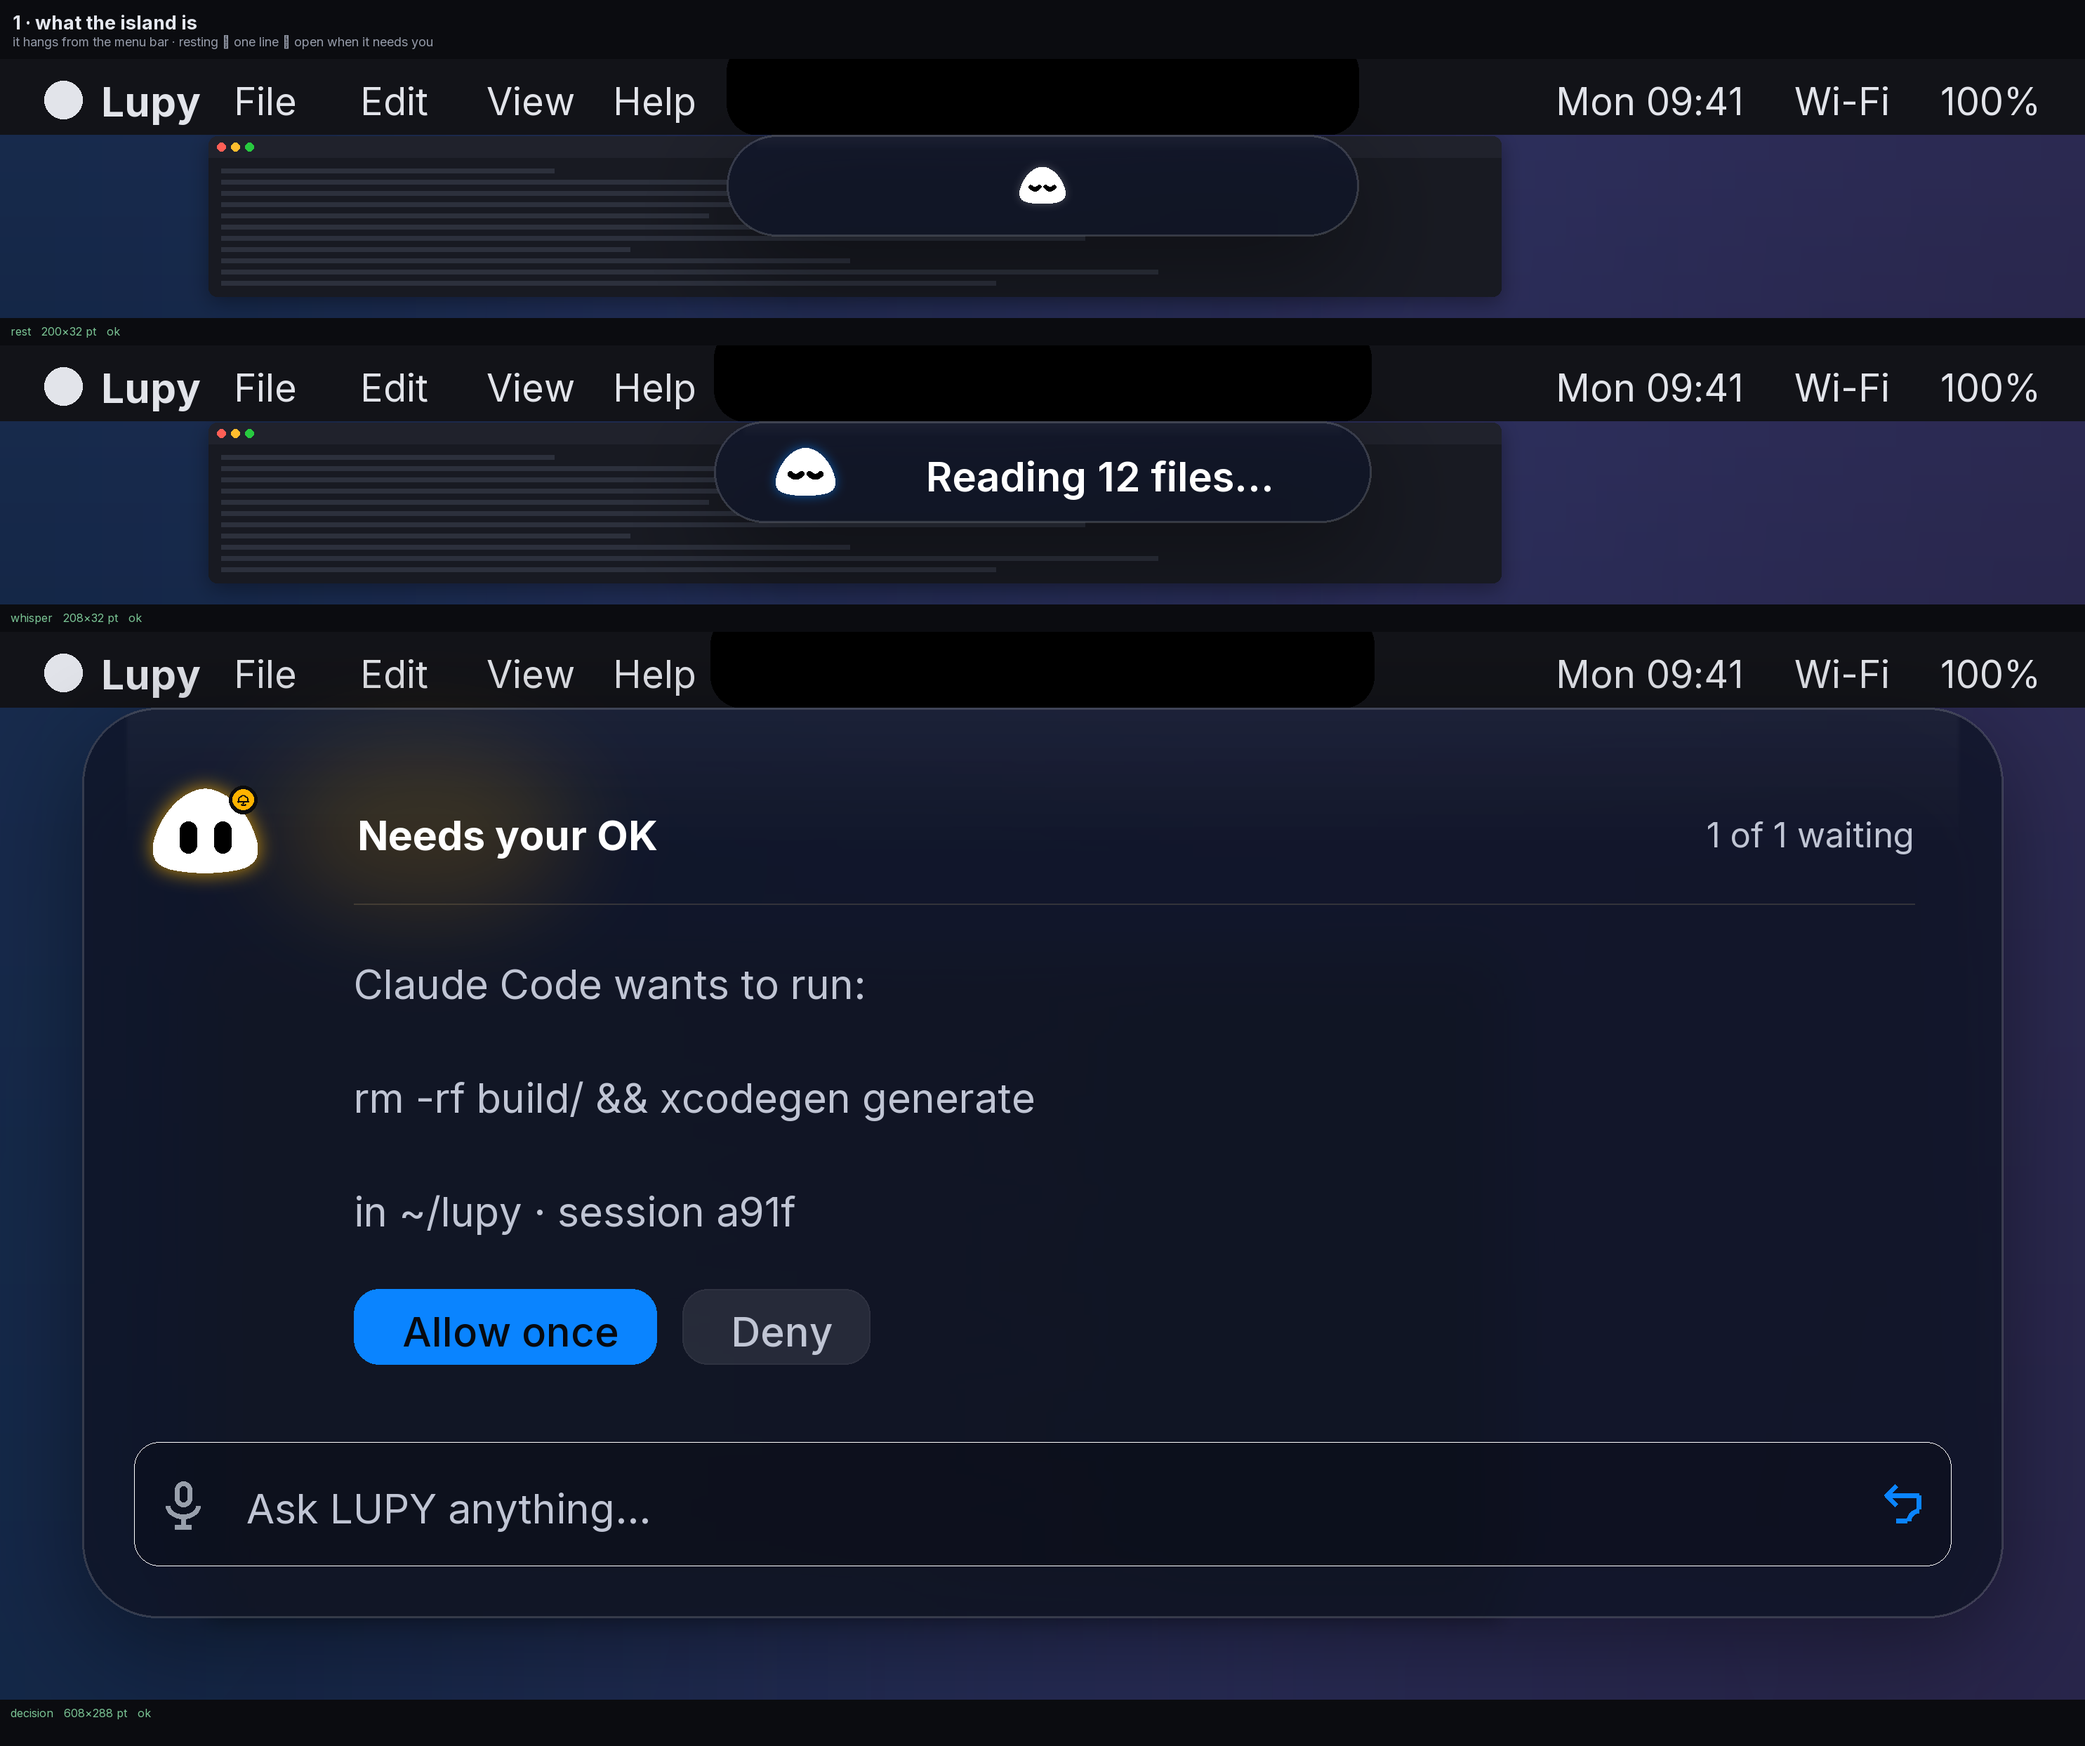
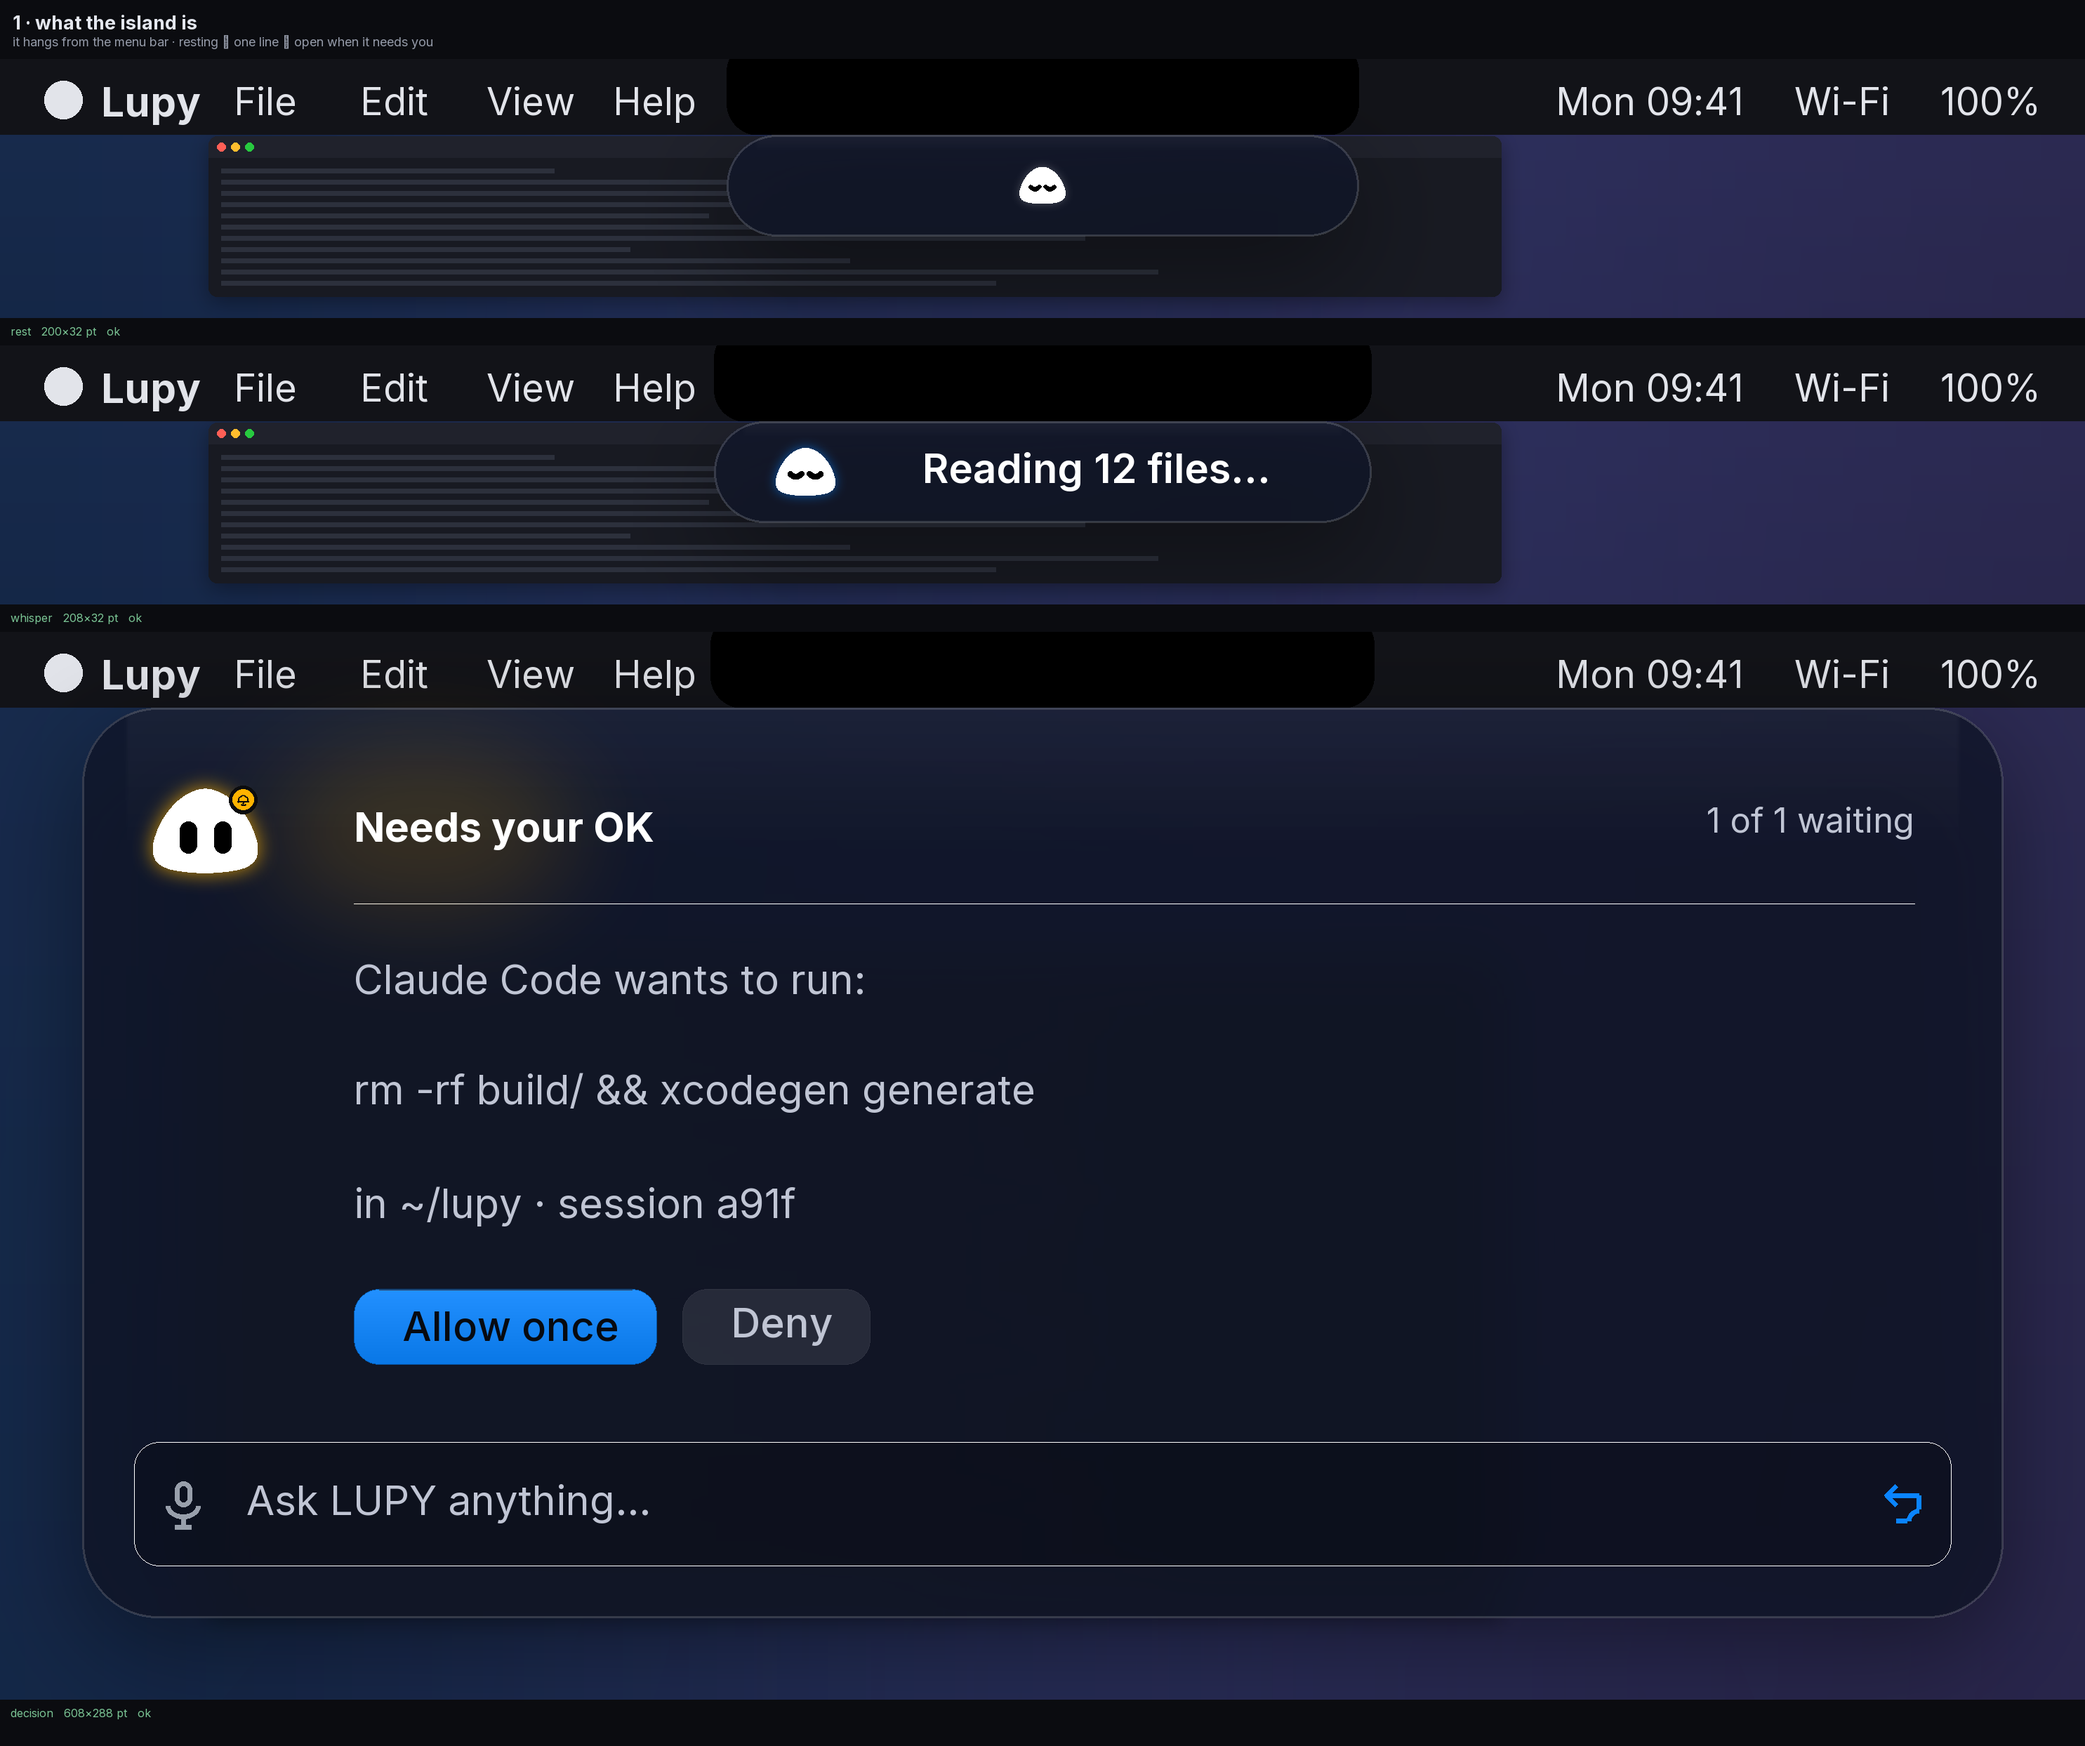
No-notch Macs: the software capsule + the jump, proven on both anchors
The founder's M1 2020 has no housing, and Coucou proved the pattern: a software
capsule 4 pt under the menu bar, centred. kernel gains softwareGap as law; the
renderer draws both anchors from one code path; walk-4-the-jump.png shows the
capsule -> line -> canvas growth from one origin, and shot-approval-m1.png is the
approval surface exactly as his MacBook will place it. Walkthrough gains Picture 4.
Council still SATISFIED (12 checks).

diff --git a/Mac/Sources/Lupy/UI/LupyIslandDesign.swift b/Mac/Sources/Lupy/UI/LupyIslandDesign.swift
@@ -639,6 +639,15 @@ enum LupyIslandLayout {
     /// The narrowest card that can still hold a headline and a source line.
     static let headlineMin: Double = 240
 
+    // MARK: where the island hangs — notch Macs and bare Macs alike
+    /// The founder's MacBook (M1 2020) has NO notch, and the island must live there
+    /// exactly as happily as on a notched machine — the way Coucou floats its pill.
+    /// On a bare Mac the capsule is a SOFTWARE island: it hangs 4 pt below the menu
+    /// bar, centred, and every growth step morphs from that same capsule origin, so
+    /// LUPY "jumps" from the pill into the open canvas instead of teleporting.
+    /// On a notch Mac the band wraps the housing and the gap is 0.
+    static let softwareGap: Double = 4
+
     /// Round *up* to the grid.
     ///
     /// Up, not down and not nearest. The height of a canvas is the sum of the rows its

diff --git a/tools/ui/layout_emit.swift b/tools/ui/layout_emit.swift
@@ -189,7 +189,7 @@ enum LayoutEmitter {
         let m2 = " row \(num(L.rowHeight)) chip \(num(L.chipHeight)) composer \(num(L.composerHeight))"
         let m3 = " chipPadH \(num(L.chipPadH)) chipIconGap \(num(L.chipIconGap))"
         let m4 = " chipCorner \(num(L.chipCorner))"
-        let m5 = " fieldCorner \(num(L.fieldCorner))"
+        let m5 = " fieldCorner \(num(L.fieldCorner)) softwareGap \(num(L.softwareGap))"
         print(m1 + m2 + m3 + m4 + m5)
         print("CONTRAST primary_bright \(num(LupyPalette.textPrimary.contrast(with: LupyGlass.panel.composited(over: br))))"
               + " primary_dark \(num(LupyPalette.textPrimary.contrast(with: LupyGlass.panel.composited(over: dk))))"

diff --git a/tools/ui/render_island.py b/tools/ui/render_island.py
@@ -177,8 +177,8 @@ def desktop(w, h, kind, seed=3):
     return img
 
 
-def menu_bar(w, ss, kind, notch_w):
-    """The macOS menu bar, with the notch the island hangs from."""
+def menu_bar(w, ss, kind, notch_w, notch=True):
+    """The macOS menu bar; the notch only where the hardware has one."""
     h = int(MENUBAR * ss)
     bar = Image.new("RGB", (w, h), (246, 247, 250) if kind == "bright" else (18, 19, 24))
     d = ImageDraw.Draw(bar)
@@ -197,7 +197,9 @@ def menu_bar(w, ss, kind, notch_w):
         tw = d.textlength(m, font=fr)
         d.text((x - tw, (h - fr.size) // 2), m, font=fr, fill=ink)
         x -= int(tw + 16 * ss)
-    # the notch: black, centred, the island's home
+    # the notch: black, centred, the island's home — absent on bare Macs
+    if not notch:
+        return bar
     nw = int(notch_w * ss)
     d.rounded_rectangle([(w - nw) // 2, -int(6 * ss), (w + nw) // 2, h],
                         radius=int(10 * ss), fill=(0, 0, 0))
@@ -341,25 +343,28 @@ def scene_width_pt(canvas):
     return int(canvas["w"]) + 52
 
 
-def draw_scene(doc, canvas, rig, kind, pp, context=True, below=26, min_w=None):
+def draw_scene(doc, canvas, rig, kind, pp, context=True, below=26, min_w=None,
+               anchor="notch"):
     """One island, hanging from a menu bar over a desktop. Returns RGB at pp*SS px/pt.
     min_w (points) lets a sheet share one screen width, so every row's menu bar
     runs edge to edge instead of being chopped to the island's own width."""
     ss = SS * pp
+    m = doc["metric"]
     w, h, corner = canvas["w"], canvas["h"], canvas["corner"]
     side = 26
     if min_w and w + 2 * side < min_w:
         side += (min_w - (w + 2 * side)) // 2
+    gap = 0.0 if anchor == "notch" else m["softwareGap"]
     top = MENUBAR if context else 0
     W = int((w + 2 * side) * ss)
-    H = int((top + h + below) * ss)
+    H = int((top + gap + h + below) * ss)
 
     img = desktop(W, H, kind)
     if context:
-        bar = menu_bar(W, ss, kind, min(w, 210))
+        bar = menu_bar(W, ss, kind, min(w, 210), notch=(anchor == "notch"))
         img.paste(bar, (0, 0))
 
-    oy = top
+    oy = top + gap
     g = doc["glass"]["panel"]
     paste_glass(img, (side, oy, w, h), corner, g, ss)
     d = ImageDraw.Draw(img)
@@ -504,12 +509,14 @@ def fit(text, font, avail, d):
 
 # --------------------------------------------------------------------- sheets
 
-def stack(doc, rig, ids, kind, pp, title=None, note=None, gap=18, min_w=None):
+def stack(doc, rig, ids, kind, pp, title=None, note=None, gap=18, min_w=None,
+          anchor="notch"):
     cs = sorted([c for c in doc["canvases"] if c["id"] in ids],
                 key=lambda c: ids.index(c["id"]))
     if min_w is None:
         min_w = max(scene_width_pt(c) for c in cs)
-    tiles = [draw_scene(doc, c, rig, kind, pp, min_w=min_w) for c in cs]
+    tiles = [draw_scene(doc, c, rig, kind, pp, min_w=min_w, anchor=anchor)
+             for c in cs]
     lab = int(26 * pp)
     W = max(t.size[0] for t in tiles)
     head = int(56 * pp) if title else 0
@@ -629,6 +636,17 @@ def main():
     save(stack(doc, rig, ["answer", "task", "question", "error", "transcript"], "dark", 1.1),
          "lupy-island-surfaces.png")
     save(grid(doc, rig, 0.9, cols=3), "lupy-island-all.png")
+
+    # The founder's M1 2020 has no notch: the software island, and the jump.
+    save(stack(doc, rig, ["rest", "whisper", "decision"], "dark", 1.5,
+               title="4 · the jump — one capsule, one origin, no notch needed",
+               note="his capsule hangs 4 pt under the menu bar and grows from itself",
+               anchor="software"),
+         "walk-4-the-jump.png")
+    dec = [c for c in doc["canvases"] if c["id"] == "decision"][0]
+    save(draw_scene(doc, dec, rig, "dark", 2.6, anchor="software"),
+         "shot-approval-m1.png")
+    save(draw_scene(doc, dec, rig, "dark", 2.6), "shot-approval.png")
 
 
 if __name__ == "__main__":

diff --git a/docs/concepts/ISLAND_WALKTHROUGH.md b/docs/concepts/ISLAND_WALKTHROUGH.md
@@ -69,3 +69,20 @@ app? I will build that one, show you the result, and wait for your OK before the
 
 That's all. Answer 1, 2 and 3 in any order — or just answer 3 and I'll use my judgment
 on 1 and 2 and show you what I chose.
+
+---
+
+## Picture 4 — your MacBook (the one without a notch)
+
+![the jump, no notch needed](walk-4-the-jump.png)
+
+Your M1 2020 has no notch, so the island is a **software capsule**: it hangs 4 pt
+under the menu bar, centred, exactly where Coucou floats its pill. Same three
+moments, same sizes, same LUPY — and because every growth step starts from that
+one capsule, he *grows* from the pill into the open card instead of teleporting.
+On a notched Mac the same law wraps the housing; nothing else changes. This is
+written into the design law as `softwareGap`, so both machines are one code path.
+
+No question here — this one is settled. Circle anything else that still isn't
+Apple-clean and the council (the picture-auditing test in `tools/ui/audit_ui.py`,
+12 checks) plus my eyes will fix exactly that.
